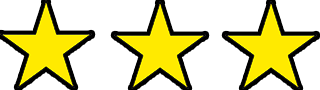
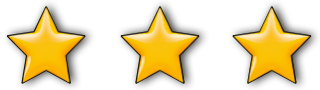
Moar Design!

diff --git a/Projektarbete/Projektarbete_v1_2/MathResultsViewController.m b/Projektarbete/Projektarbete_v1_2/MathResultsViewController.m
@@ -21,6 +21,7 @@
 @synthesize gamemodeLabel;
 @synthesize highscoreLabel;
 @synthesize starLabel;
+@synthesize starImage;
 
 - (id)initWithNibName:(NSString *)nibNameOrNil bundle:(NSBundle *)nibBundleOrNil
 {
@@ -53,26 +54,30 @@
 - (void)viewDidLoad
 {
     [super viewDidLoad];
-    
+    int stars;
     //Hur många stjärnor får användaren? Ska presenteras grafiskt senare, och storas som highscoren.
     //Storar hur många stjärnor man har, tex 3 forKey StarsAddition2 då har man alltså 3 stjärnor på Addition lvl 2
     if (finalTime < ((difficulty * 100)*0.2) && results == 10) {
         starLabel.text = @"3 Stars!";
+        stars = 3;
         if ([[[Singleton sharedSingleton] sharedPrefs] integerForKey:[NSString stringWithFormat:@"Stars%@%i",operation,difficulty] ] < 3) {
             [[[Singleton sharedSingleton] sharedPrefs] setInteger:3 forKey:[NSString stringWithFormat:@"Stars%@%i",operation,difficulty]];
         }
     } else if (finalTime < (difficulty * 100)*0.4 && results == 10) {
         starLabel.text = @"2 Stars!";
+        stars = 2;
         if ([[[Singleton sharedSingleton] sharedPrefs] integerForKey:[NSString stringWithFormat:@"Stars%@%i",operation,difficulty] ] < 2) {
             [[[Singleton sharedSingleton] sharedPrefs] setInteger:2 forKey:[NSString stringWithFormat:@"Stars%@%i",operation,difficulty]];
         }
     } else if (finalTime < (difficulty * 100)*0.6 && results == 10) {
         starLabel.text = @"1 Star!";
+        stars = 1;
         if ([[[Singleton sharedSingleton] sharedPrefs] integerForKey:[NSString stringWithFormat:@"Stars%@%i",operation,difficulty] ] < 1) {
             [[[Singleton sharedSingleton] sharedPrefs] setInteger:1 forKey:[NSString stringWithFormat:@"Stars%@%i",operation,difficulty]];
         }
     } else {
-        starLabel.text = @"No stars this time! Haha! :(";
+        starLabel.text = @"No stars this time! :(";
+        stars = 0;
          [[[Singleton sharedSingleton] sharedPrefs] setInteger:0 forKey:[NSString stringWithFormat:@"Stars%@%i",operation,difficulty]];
     }
     
@@ -87,6 +92,28 @@
     int totalStars = starsA + starsB + starsC + starsD + starsE;
     
     [[[Singleton sharedSingleton] sharedPrefs] setInteger:totalStars forKey:[NSString stringWithFormat:@"TotalStars%@",operation]];
+    
+    NSString *name;
+    
+    switch (stars) {
+        case 0:
+            name = @"NoStars.png";
+            break;
+        case 1:
+            name = @"OneStars.png";
+            break;
+        case 2:
+            name = @"TwoStars.png";
+            break;
+        case 3:
+            name = @"ThreeStars.png";
+            break;
+        default:
+            name = @"NoStars.png";
+            break;
+    }
+    
+    starImage.image = [UIImage imageNamed:name];
 
     [[[Singleton sharedSingleton] sharedPrefs] synchronize];
     navItem.hidesBackButton = YES;
@@ -125,6 +152,7 @@
 - (void)viewDidUnload
 {
     [self setResultsLabel:nil];
+    [self setStarImage:nil];
     [super viewDidUnload];
     // Release any retained subviews of the main view.
     // e.g. self.myOutlet = nil;

diff --git a/Projektarbete/Projektarbete_v1_2/MathMasterViewController.m b/Projektarbete/Projektarbete_v1_2/MathMasterViewController.m
@@ -34,8 +34,8 @@
     
     
     
-    UIImageView *imageView = [[UIImageView alloc] initWithImage:[UIImage imageNamed:@"MathFirstBG4.png"]];
-    self.tableView.backgroundView = imageView;
+  //  UIImageView *imageView = [[UIImageView alloc] initWithImage:[UIImage imageNamed:@"MathFirstBG4.png"]];
+  //  self.tableView.backgroundView = imageView;
     
     operations = [[NSMutableArray alloc] init];
     otherExercises = [[NSMutableArray alloc] init];

diff --git a/Projektarbete/Projektarbete_v1_2/MathResultsViewController.h b/Projektarbete/Projektarbete_v1_2/MathResultsViewController.h
@@ -29,6 +29,7 @@
 @property (strong, nonatomic) IBOutlet UILabel *gamemodeLabel;
 @property (strong, nonatomic) IBOutlet UILabel *highscoreLabel;
 @property (strong, nonatomic) IBOutlet UILabel *starLabel;
+@property (weak, nonatomic) IBOutlet UIImageView *starImage;
 
 @property (retain, nonatomic) IBOutlet UINavigationItem *navItem;
 - (IBAction)continueButtonPressed:(id)sender;
